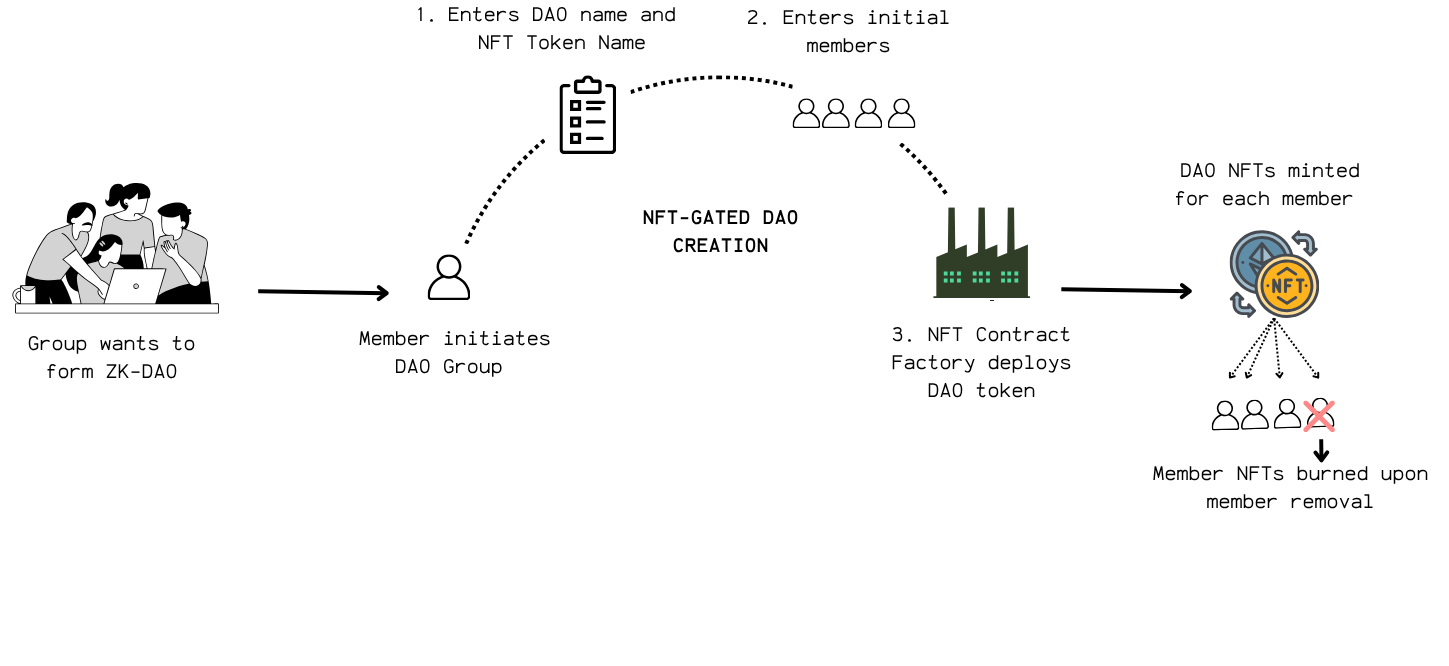
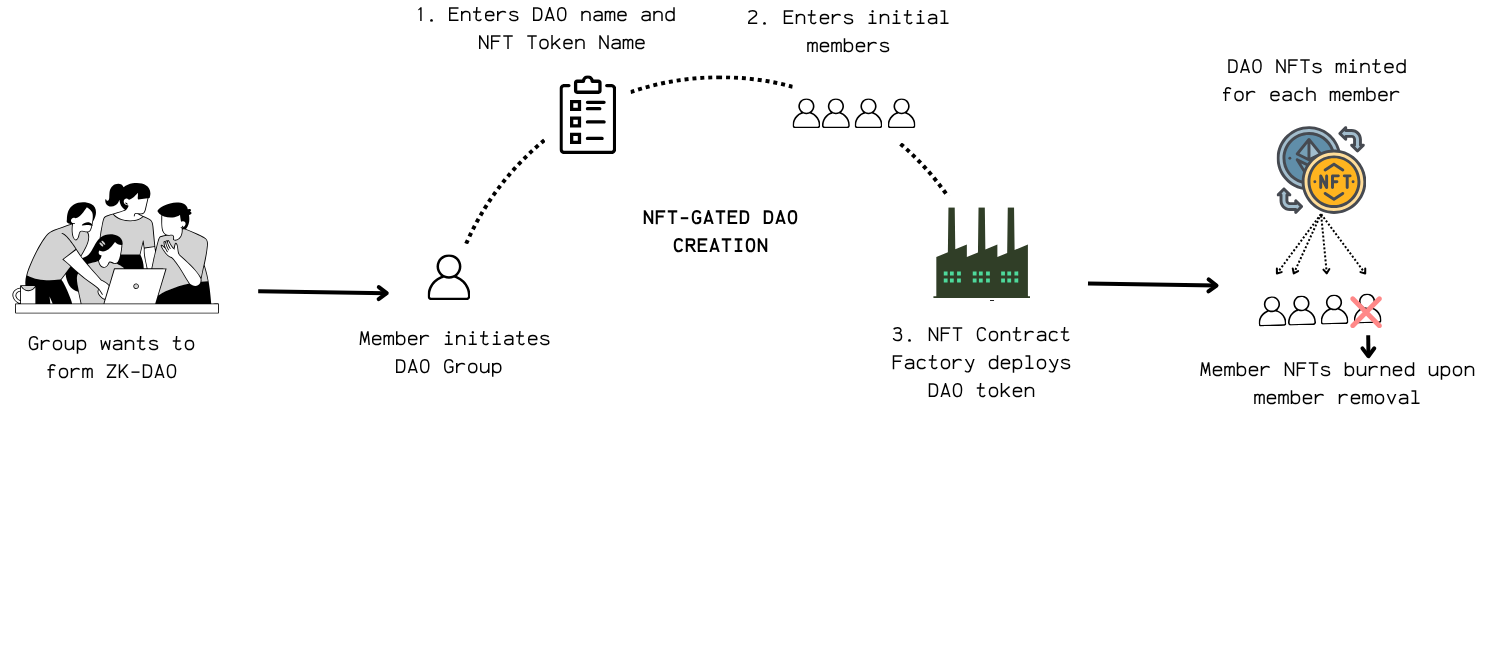
New illustrations for phase 1

diff --git a/docs/lifecycle-phase1-membership.md b/docs/lifecycle-phase1-membership.md
@@ -4,6 +4,8 @@
 
 A DAO is initiated when a ERC721 contract with the DAO's name and token symbol is deployed. This is achieved through a minimal proxy EIP-1167  contract: a main, immutable ERC721 contract is deployed (implementation contract) which acts like a contract factory for all subsequent clones. 
 
+![DAO formation & membership](../frontend/src/assets/dao-creation.png)
+
 #### Key Features
 
 Implementation Contract: [ERC721IgnitionZK](hardhat/contracts/token/ERC721IgnitionZK.sol)
@@ -25,6 +27,8 @@ The appointed administrator of a new DAO group extends invitations to the initia
 #### Step 1.3 Member ZK Credential Generation
 
 Only members actively holding one of the DAO's valid membership NFTs are eligible to proceed with generating their Zero-Knowledge credentials for private interactions within the DAO.
+
+![ZK credential generation](../frontend/src/assets/zk-credentials.png)
 
 #### Methodology
 
@@ -54,6 +58,8 @@ Following the generation of a new member's identity commitment, the DAO's Merkle
 #### Step 1.5 Member Verification
 
 When a DAO member wants to perform an action, like submitting or voting on a proposal, they first need to prove they're an eligible member. This membership verification is a critical, integrated step within both the proposal submission and voting processes.
+
+![Member verification](../frontend/src/assets/member-verification.png)
 
 #### Methodology
 

diff --git a/README.md b/README.md
@@ -89,13 +89,11 @@ This layer provides the smart contract architecture built on OpenZeppelin's UUPS
 ![DAO formation & membership](frontend/src/assets/dao-creation.png)
 *Step 1: NFT-Gated DAO formation*
 
-<image 2>
+![ZK credential generation](frontend/src/assets/zk-credentials.png)
+*Step 2: ZK-Credential generation & Merkle Tree management*
 
-*Step 2: ZK-Credential generation*
-
-<image 3>
-
-*Step 3: Merkle Tree management*
+![Member verification](frontend/src/assets/member-verification.png)
+*Step 3: Member verification*
 
 DAO creation begins with deploying an ERC721 contract for membership tokens, followed by credential generation for private governance:
 
